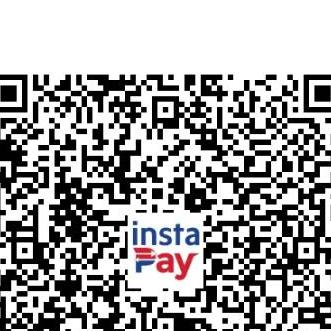
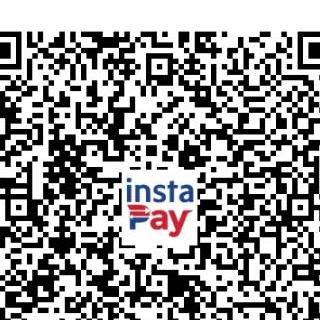
Budget: update QR code to user-cropped version

diff --git a/budget.html b/budget.html
@@ -157,7 +157,7 @@
             <h4>GCash</h4>
             <p>Scan the QR code below or send directly to Nelia Paras</p>
             <div class="qr-code">
-              <img src="images/gcash-qr.jpg" alt="GCash QR Code" class="qr-img">
+              <img src="images/gcash-qr.png" alt="GCash QR Code" class="qr-img">
             </div>
           </div>
         </div>
